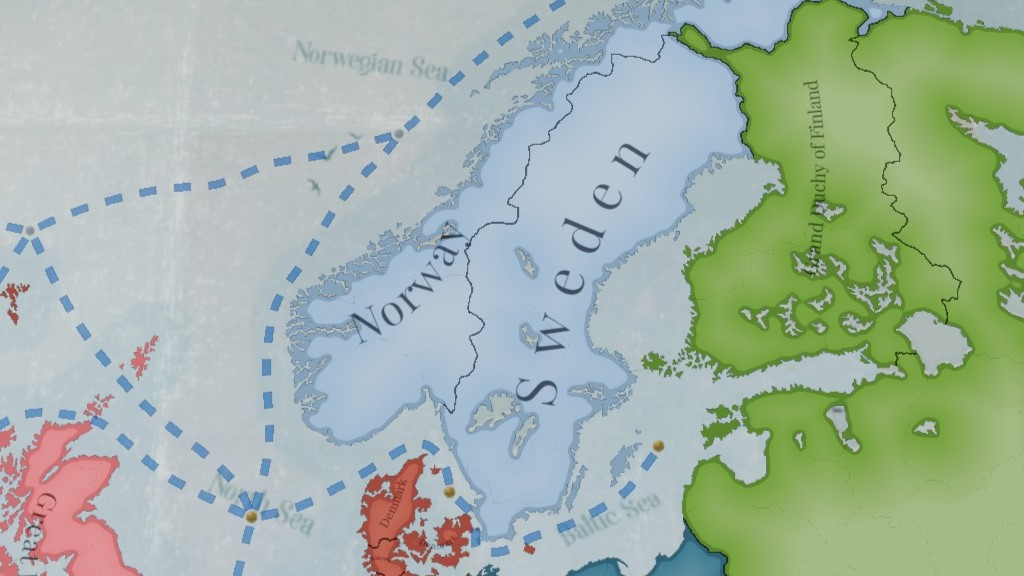
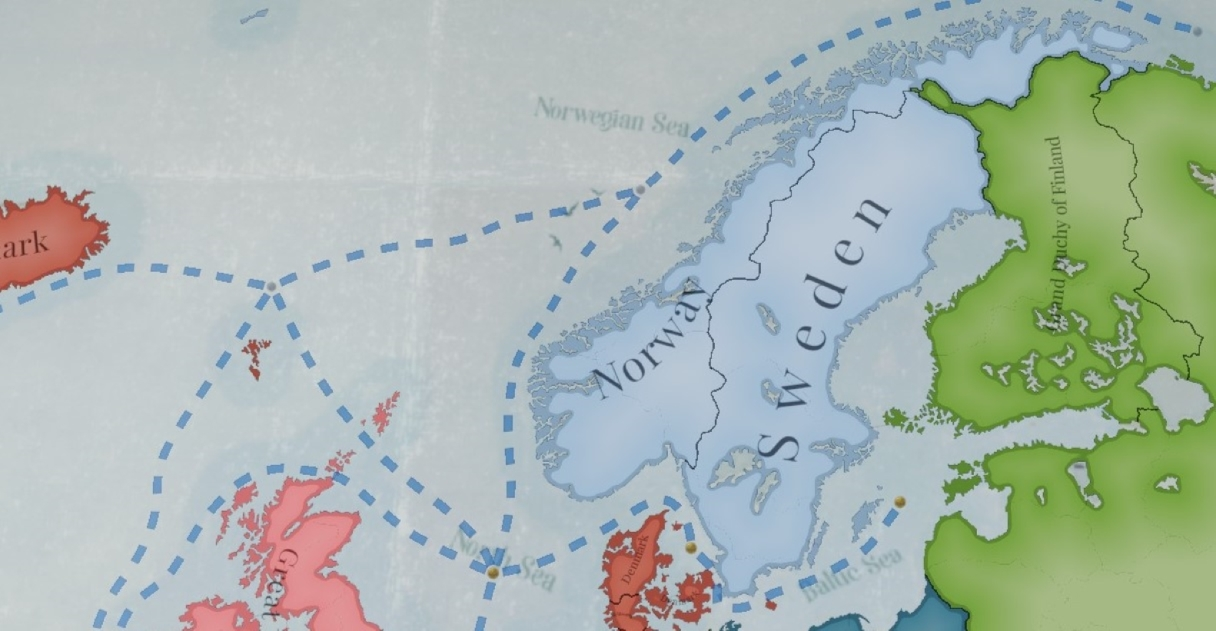
Added Map

diff --git a/src/main/ui/SandboxGUI.java b/src/main/ui/SandboxGUI.java
@@ -18,6 +18,7 @@ public class SandboxGUI extends JFrame {
 
     private static final String JSON_STORE = Paths.get(".", "data", "Sandbox.json").toString();
     private static final ImageIcon LOGO = new ImageIcon(Paths.get(".", "data", "Logo.png").toString());
+    private static final String MAP = Paths.get(".", "data", "map.jpg").toString();
     private static final ImageIcon NORMAL_PRICE = new ImageIcon(Paths.get(".", "data", "NormalPrice.png").toString());
     private static final ImageIcon LOW_PRICE = new ImageIcon(Paths.get(".", "data", "LowPrice.png").toString());
     private static final ImageIcon HIGH_PRICE = new ImageIcon(Paths.get(".", "data", "HighPrice.png").toString());
@@ -96,7 +97,7 @@ public class SandboxGUI extends JFrame {
 
 
     private void initializeGraphics() {
-        setSize(1280, 720);
+        setSize(1230, 690);
         createButtons();
         initializeInteractionArea();
         informationPanel = new JPanel();
@@ -107,8 +108,12 @@ public class SandboxGUI extends JFrame {
 
     private void initializeInteractionArea() {
         interactionArea = new JLayeredPane();
-        interactionArea.setLayout(new BorderLayout());
+        //interactionArea.setLayout(new BorderLayout());
         add(interactionArea, BorderLayout.CENTER);
+        JPanel map = new ImagePanel(MAP);
+        map.setBounds(0, 0, 1580, 820);
+
+        interactionArea.add(map, 0);
     }
 
 
@@ -168,7 +173,8 @@ public class SandboxGUI extends JFrame {
         informationPanel = new JPanel();
         informationPanel.setLayout(new GridBagLayout());
         informationPanel.setBackground(Color.LIGHT_GRAY);
-        informationPanel.setPreferredSize(new Dimension(300, 100));
+        informationPanel.setBounds(0,0, 300, 821);
+        //informationPanel.setPreferredSize(new Dimension(300, 821));
         GridBagConstraints gbc = giveInfoPanelConstraints();
 
         addConstructionHeader(gbc);
@@ -217,7 +223,8 @@ public class SandboxGUI extends JFrame {
         informationPanel = new JPanel();
         informationPanel.setLayout(new GridBagLayout());
         informationPanel.setBackground(Color.LIGHT_GRAY);
-        informationPanel.setPreferredSize(new Dimension(500, 100));
+        informationPanel.setBounds(0,0, 500, 821);
+        //informationPanel.setPreferredSize(new Dimension(500, 821));
         GridBagConstraints gbc = giveInfoPanelConstraints();
 
         addIndustryReportHeader(gbc);
@@ -356,7 +363,8 @@ public class SandboxGUI extends JFrame {
         informationPanel = new JPanel();
         informationPanel.setLayout(new GridBagLayout());
         informationPanel.setBackground(Color.LIGHT_GRAY);
-        informationPanel.setPreferredSize(new Dimension(300, 100));
+        informationPanel.setBounds(0,0, 300, 821);
+        //informationPanel.setPreferredSize(new Dimension(300, 100));
         GridBagConstraints gbc = giveInfoPanelConstraints();
 
         List<Goods> activeGoods = economy.getMarket().removeInactiveGoods().getAllGoods();
@@ -439,7 +447,7 @@ public class SandboxGUI extends JFrame {
     }
 
     private void refreshInteractionArea() {
-        interactionArea.add(informationPanel, BorderLayout.WEST, Integer.valueOf(1));
+        interactionArea.add(informationPanel, Integer.valueOf(1));
         revalidate();
         repaint();
     }

diff --git a/src/main/ui/ImagePanel.java b/src/main/ui/ImagePanel.java
@@ -1,0 +1,27 @@
+package ui;
+
+import javax.imageio.ImageIO;
+import javax.swing.*;
+import java.awt.*;
+import java.awt.image.BufferedImage;
+import java.io.File;
+import java.io.IOException;
+import java.nio.file.Paths;
+
+public class ImagePanel extends JPanel {
+    private BufferedImage image;
+
+    public ImagePanel(String path) {
+        try {
+            image = ImageIO.read(new File(path));
+        } catch (IOException e) {
+            System.out.println("Image file not found");
+        }
+    }
+
+    @Override
+    protected void paintComponent(Graphics g) {
+        super.paintComponent(g);
+        g.drawImage(image, 0, 0, this); // see javadoc for more info on the parameters
+    }
+}
